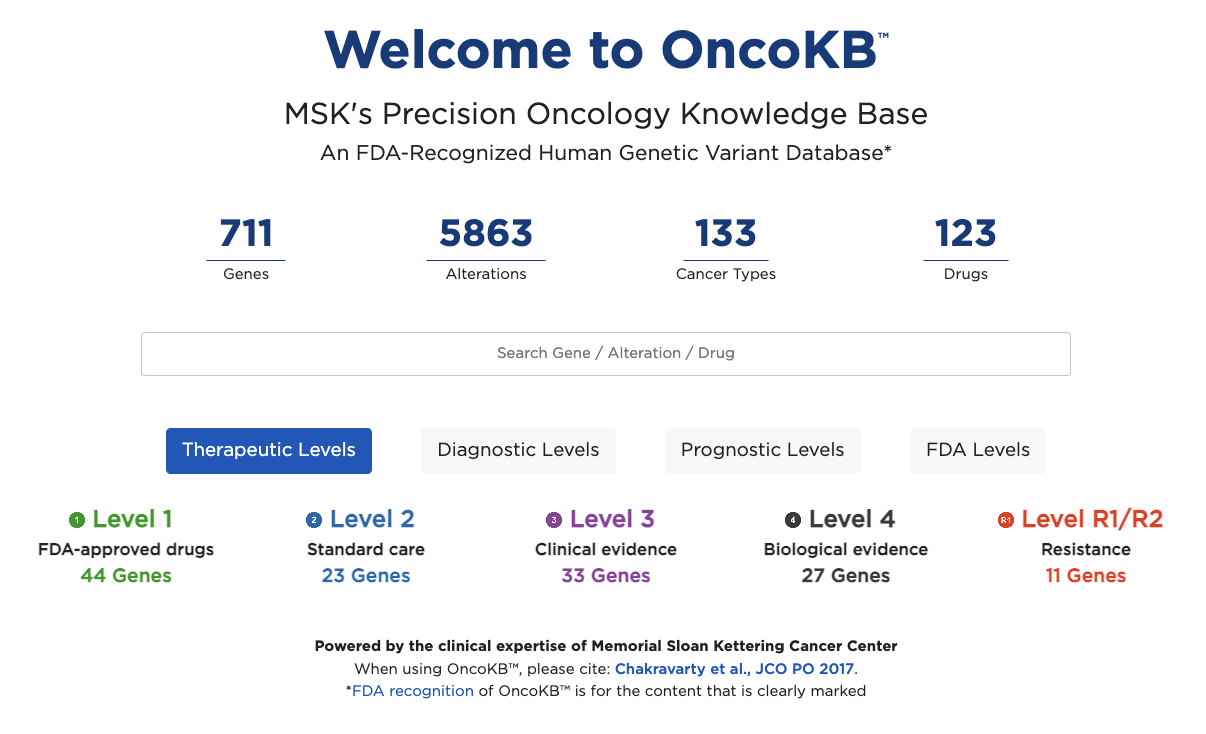
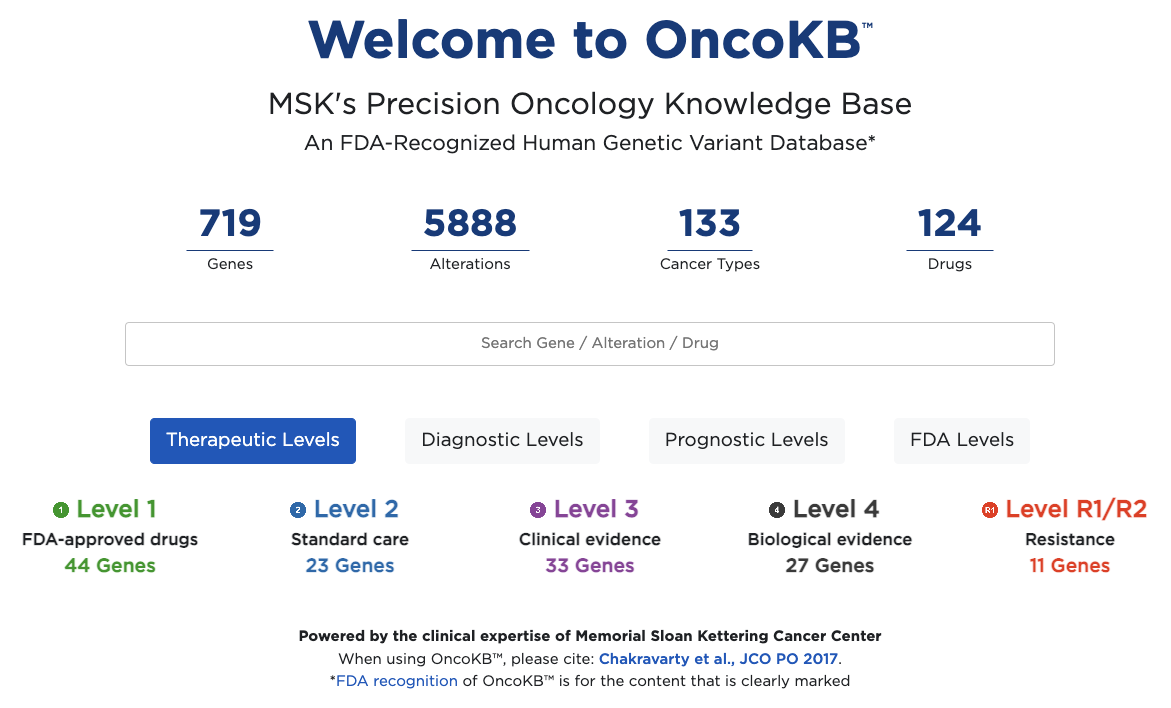
Add news for data v3.19

diff --git a/src/main/webapp/app/pages/newsPage/NewsPageContent.tsx b/src/main/webapp/app/pages/newsPage/NewsPageContent.tsx
@@ -151,6 +151,70 @@ const EVIDENCE_COLUMN_SEPARATOR = '; ';
 // https://stackoverflow.com/questions/41947168/is-it-possible-to-use-keyof-operator-on-literals-instead-of-interfaces
 
 export const NEWS_BY_DATE: { [date: string]: NewsData } = {
+  '12132022': {
+    newlyAddedGenes: [
+      'ATP1A1',
+      'FUS',
+      'HMGA1',
+      'HMGA2',
+      'HTATIP2',
+      'INTS6',
+      'TRIM27',
+      'ZFP36L2',
+    ],
+    news: [
+      <span>
+        Updated therapeutic implications - addition of therapies for variants
+        with a level of evidence
+        <Row className={'overflow-auto'}>
+          <table className="table">
+            <thead>
+              <tr>
+                <th>Gene</th>
+                <th>Mutation</th>
+                <th>Cancer Type</th>
+                <th>Current Level of Evidence</th>
+                <th>Drug(s) Already in {ONCOKB_TM}</th>
+                <th>Newly Added Drug</th>
+                <th>Evidence</th>
+              </tr>
+            </thead>
+            <tbody>
+              <tr>
+                <td>IDH1</td>
+                <td>R132C/H/L/G/S</td>
+                <td>Acute Myeloid Leukemia</td>
+                <td>1</td>
+                <td>Ivosidenib</td>
+                <td>
+                  Olutasidenib
+                  <br />
+                  (Level 1)
+                </td>
+                <td>
+                  <WithSeparator separator={EVIDENCE_COLUMN_SEPARATOR}>
+                    <FdaApprovalLink
+                      approval={'Olutasidenib in AML'}
+                      link={
+                        'https://www.fda.gov/drugs/resources-information-approved-drugs/fda-approves-olutasidenib-relapsed-or-refractory-acute-myeloid-leukemia-susceptible-idh1-mutation'
+                      }
+                    />
+                    <AbstractLink
+                      abstract={'Cortes et al. Abstract #6193, ASH 2022'}
+                      link={
+                        'https://ashpublications.org/blood/article/140/Supplement%201/6193/487212'
+                      }
+                    />
+                  </WithSeparator>
+                  ,
+                </td>
+              </tr>
+            </tbody>
+          </table>
+        </Row>
+      </span>,
+    ],
+  },
   '10282022': {
     updatedImplicationTitle:
       'Updated therapeutic implications - new alterations with a level of evidence',

diff --git a/src/main/webapp/app/pages/newsPage/NewsPage.tsx b/src/main/webapp/app/pages/newsPage/NewsPage.tsx
@@ -81,6 +81,7 @@ export default class NewsPage extends React.Component<{
             <CitationText />
           </div>
           <div className="mt-2">
+            <NewsList date={'12132022'} />
             <NewsList date={'11302022'}>
               <ul>
                 <li>

diff --git a/src/main/webapp/app/config/constants.tsx b/src/main/webapp/app/config/constants.tsx
@@ -727,6 +727,7 @@ export type DataRelease = {
 };
 
 export const DATA_RELEASES: DataRelease[] = [
+  { date: '12132022', version: 'v3.19' },
   { date: '11302022', version: 'v3.18' },
   { date: '10282022', version: 'v3.17' },
   { date: '09062022', version: 'v3.16' },
